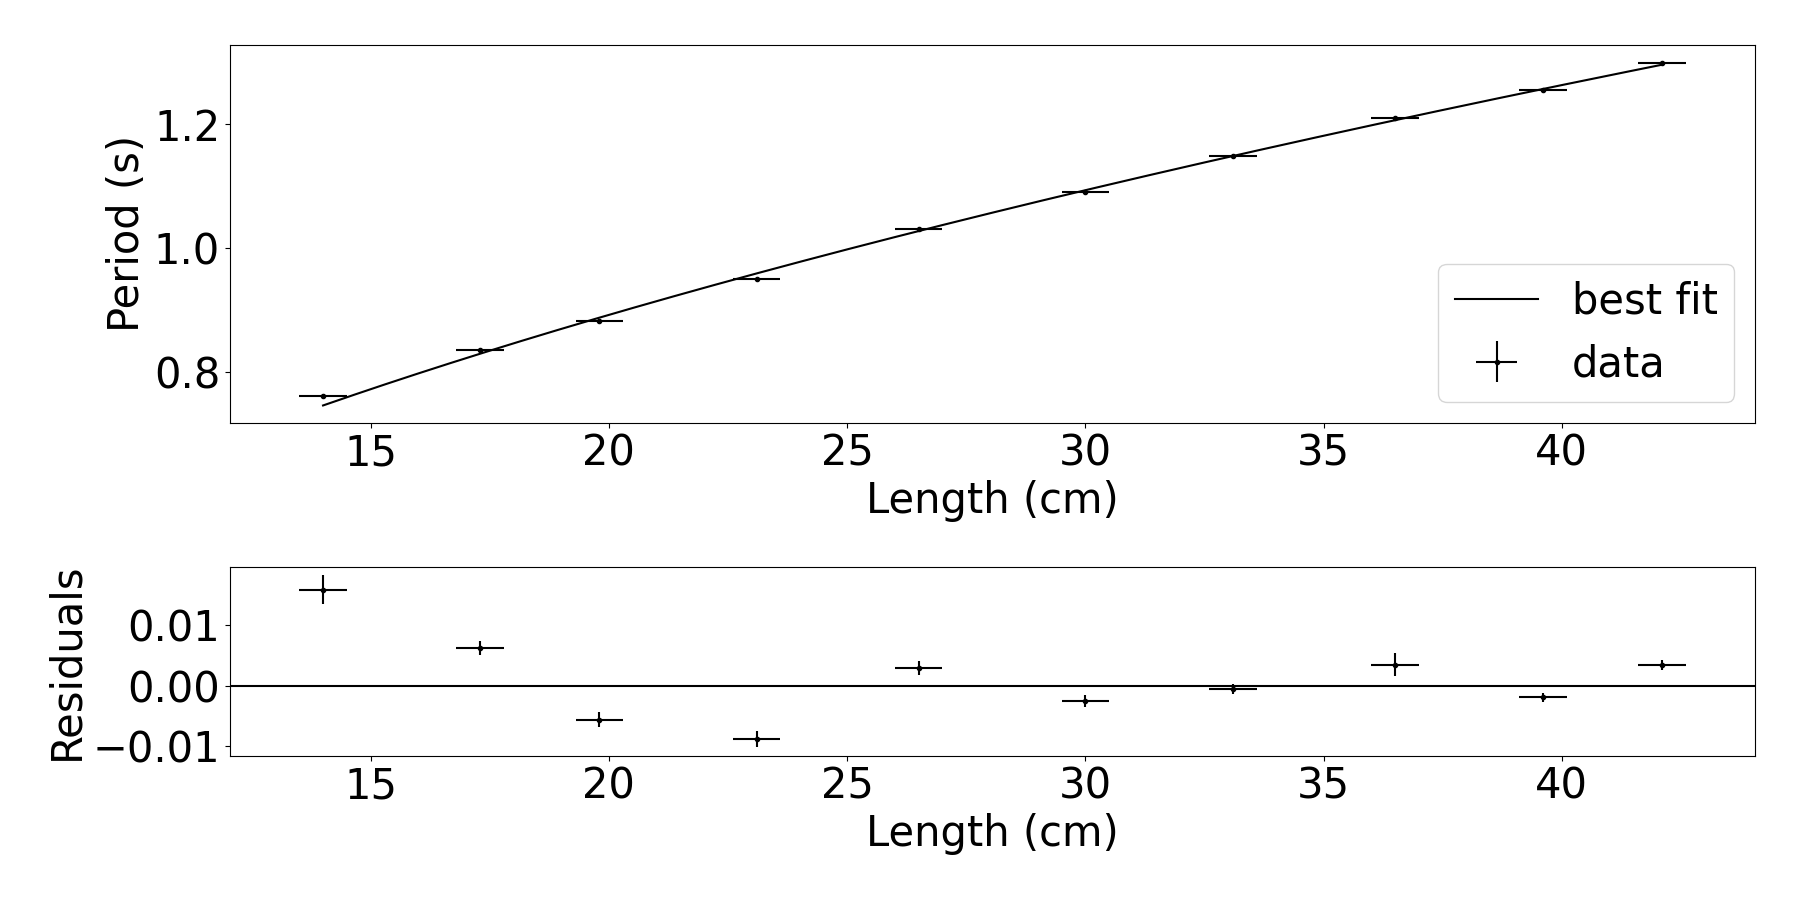
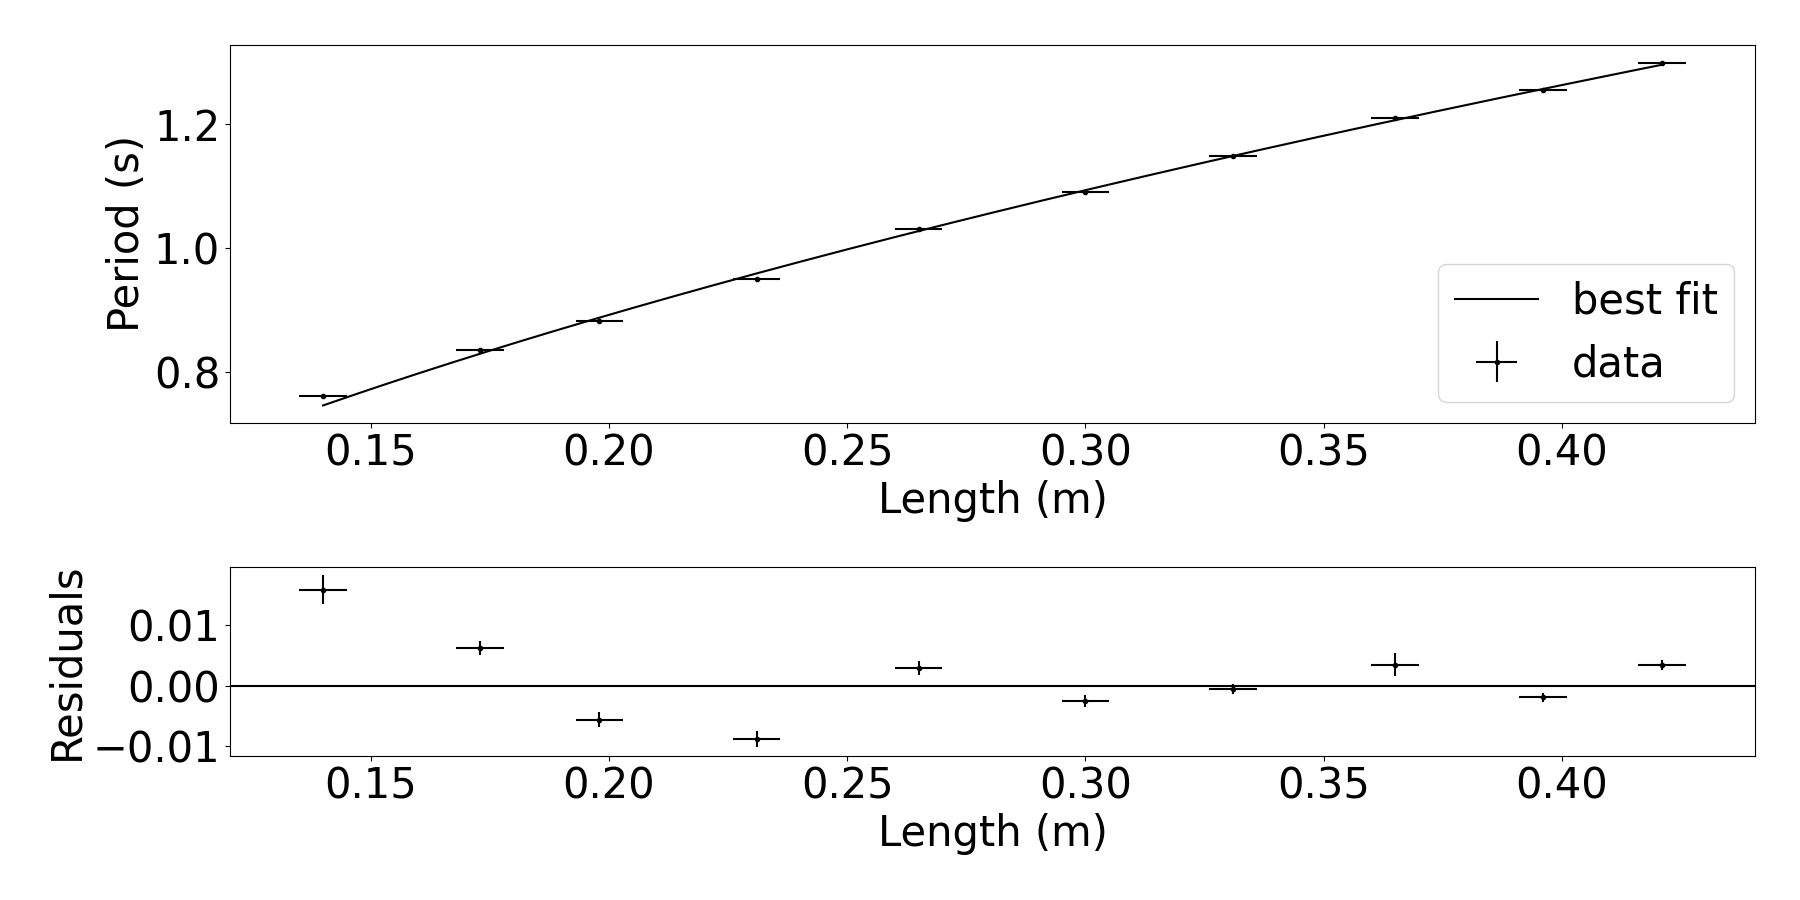
im so done with this lab bro

diff --git a/yippee2.py b/yippee2.py
@@ -23,37 +23,107 @@ import matplotlib.pyplot as plt
 import statistics
 from pathlib import Path
 
-def load_fit_exponential_amplitudes(lengths):
+def load_q(lengths):
     output = ""
     input_dir = Path(__file__).parent / "input-files"
 
-    for length in lengths:
-        filename = input_dir / f"PHY180 Pendulum - L={length}.csv"
-        times, amplitudes = np.genfromtxt(filename, usecols=(0,1), skip_header=1, unpack = True, delimiter = ',')
-        time_error = np.array([1/120] * len(times))
-        amplitude_error = np.array([np.deg2rad(0.2)] * len(amplitudes))
-        print(times)
-        print(amplitudes)
+    filename = input_dir / f"PHY180 Pendulum - Q vs L.csv"
+    lengths, Qs, Q_errors = np.genfromtxt(filename, usecols=(0,1,2), skip_header=1, unpack = True, delimiter = ',')
+    length_errors = np.array([0.5] * len(lengths))
+    print(lengths)
+    print(Qs)
+            
+    return lengths, Qs, length_errors, Q_errors
+
+def plot_fit(my_func, xdata, ydata, xerror=None, yerror=None, init_guess=None, font_size=30,
+             xlabel="", ylabel="Period (s)", 
+             title="",
+             output_filename = "graph.png"
+             ):    
+    plt.rcParams.update({'font.size': font_size})
+    plt.rcParams['figure.figsize'] = 18, 9
+    # Change the fontsize of the graphs to make it easier to read.
+    # Also change the picture size, useful for the save-to-file option.
                
-        popt, pcov = optimize.curve_fit(exponential, times, amplitudes, sigma=amplitude_error, p0=None, absolute_sigma=True)
-        # The best fit values are popt[], while pcov[] tells us the uncertainties.
+    popt, pcov = optimize.curve_fit(my_func, xdata, ydata, sigma=yerror, p0=init_guess, absolute_sigma=True)
+    # The best fit values are popt[], while pcov[] tells us the uncertainties.
 
-        puncert = np.sqrt(np.diagonal(pcov))
-        # The uncertainties are the square roots of the diagonal of the covariance matrix
-        output += f"Length {length}:\n"
-        for i in range(len(popt)):
-            output += f"{popt[i]} +/- {puncert[i]}\n"
-        output += "\n"
-        
+    puncert = np.sqrt(np.diagonal(pcov))
+    # The uncertainties are the square roots of the diagonal of the covariance matrix
+    
+    start = min(xdata)
+    stop = max(xdata)    
+    xs = np.arange(start,stop,(stop-start)/1000) 
+    curve = my_func(xs, *popt) 
+    # (x,y) = (xs,curve) is the line of best fit for the data in (xdata,ydata).
+    # It has 1000 points to make it look smooth.
+    # Note: the "*" tells Python to send all the popt values in a readable way.
+    
+    fig, (ax1,ax2) = plt.subplots(2, 1, gridspec_kw={'height_ratios': [2, 1]})
+    # Make 2 graphs above/below each other: ax1 is top, ax2 is bottom.
+    # The gridspec_kw argument makes the top plot 2 times taller than the bottom plot.
+    # You can adjust the relative heights by, say, changing [2, 1] to [3, 1].
+    
+    ax1.errorbar(xdata, ydata, yerr=yerror, xerr=xerror, fmt=".", label="data", color="black")
+    # Plot the data with error bars, fmt makes it data points not a line, label is
+    # a string which will be printed in the legend, you should edit this string.
+
+    ax1.plot(xs, curve, label="best fit", color="black")
+    # Plot the best fit curve on top of the data points as a line.
+    # NOTE: you may want to change the value of label to something better!!
+
+    ax1.legend(loc='upper right' if output_filename=="amplitude vs. time" else 'lower right')
+    # Prints a box using what's in the "label" strings in the previous two lines.
+    # loc specifies the location
+
+    ax1.set_xlabel(xlabel)
+    ax1.set_ylabel(ylabel)
+    ax1.set_title(title)
+    # label the axes and set a title
+
+    #ax1.set_xscale('log')
+    #ax1.set_yscale('log')
+    # uncomment out the above two lines if you want to make it log-log scale
+    
+    residual = ydata - my_func(xdata, *popt)
+    ax2.errorbar(xdata, residual, yerr=yerror, xerr=xerror, fmt=".", color="black")
+    # Plot the residuals with error bars.
+    
+    ax2.axhline(y=0, color="black")    
+    # Plot the y=0 line for context.
+    
+    ax2.set_xlabel(xlabel)
+    ax2.set_ylabel("Residuals")
+    # ax2.set_title("Residuals of the fit")
+    # Here is where you change how your graph is labelled.
+
+    fig.tight_layout()
+    # Does a decent cropping job of the two figures.
+    
     output_dir = Path(__file__).parent / "output-files"
-        
-    with open(output_dir / ("lengths and taus.txt"), 'w') as f:
+    
+    with open(output_dir / (output_filename + ".txt"), 'w') as f:
         f.write("Best fit parameters, with uncertainties, but not rounded off properly:\n")
-        f.write(output)
+        for i in range(len(popt)):
+            f.write(f"{popt[i]} +/- {puncert[i]}\n")
+    
+    fig.savefig(output_dir / (output_filename + ".png"))
+    # Show the graph on your screen.
 
-def exponential(time, theta_0, tau):
-    return theta_0 * np.e ** -(time/tau)
+    
+    # This saves the graph as a file, which will get overwritten
+    # every time you run this program, so rename the file if you
+    # want to keep multiple files!
+
+
+
+def log(L, theta_0, tau):
+    return 
 
 
 if __name__ == '__main__':
-    load_fit_exponential_amplitudes([36.5])
+    plot_fit(log, 
+             *load_q,
+             xlabel="Length (cm)",
+             ylabel="Q (s)",
+             output_filename = "period vs length")

diff --git a/yippee3.py b/yippee3.py
@@ -37,10 +37,10 @@ def load_period_vs_length(filename):
     length_error = []
     mean_periods = []
     period_error = []
-    period_b_uncertainty = 0.0008 # 120 fps, 3 oscillations: 1/120/3 = 2.78e-3 ~ 3e-3
+    period_b_uncertainty = 0.0008 # 120 fps, 10 oscillations
     for length, periods in filtered_periods.items():
         lengths.append(length)
-        length_error.append(0.5)
+        length_error.append(0.005)
         mean_periods.append(np.mean(periods))
         period_error.append(max(
             period_b_uncertainty, 
@@ -58,8 +58,8 @@ def load_period_vs_length(filename):
     ), (
         np.log(lengths),
         np.log(mean_periods),
-        np.array(length_error), # TODO: FIGURE OUT WTF TO DO WITH THESE ERROR BARS
-        np.array(period_error), # TODO: FIGURE OUT WTF TO DO WITH THESE ERROR BARS
+        np.array([0.1] * len(lengths)), # TODO: FIGURE OUT WTF TO DO WITH THESE ERROR BARS
+        np.array([0.1] * len(lengths)), # TODO: FIGURE OUT WTF TO DO WITH THESE ERROR BARS
     )
 
 def plot_fit(my_func, xdata, ydata, xerror=None, yerror=None, init_guess=None, font_size=30,
@@ -161,12 +161,12 @@ if __name__ == '__main__':
     tvsl_data, log_tvsl_data = load_period_vs_length(input_dir / "PHY180 Pendulum - T vs L.csv")
     plot_fit(power_series, 
              *tvsl_data,
-             xlabel="Length (cm)",
+             xlabel="Length (m)",
              ylabel="Period (s)",
              output_filename = "period vs length")
     plot_fit(line, 
              *log_tvsl_data,
-             xlabel="loggy Length (cm)",
+             xlabel="loggy Length (m)",
              ylabel="loggy Period (s)",
              output_filename = "period vs length logged")
     
